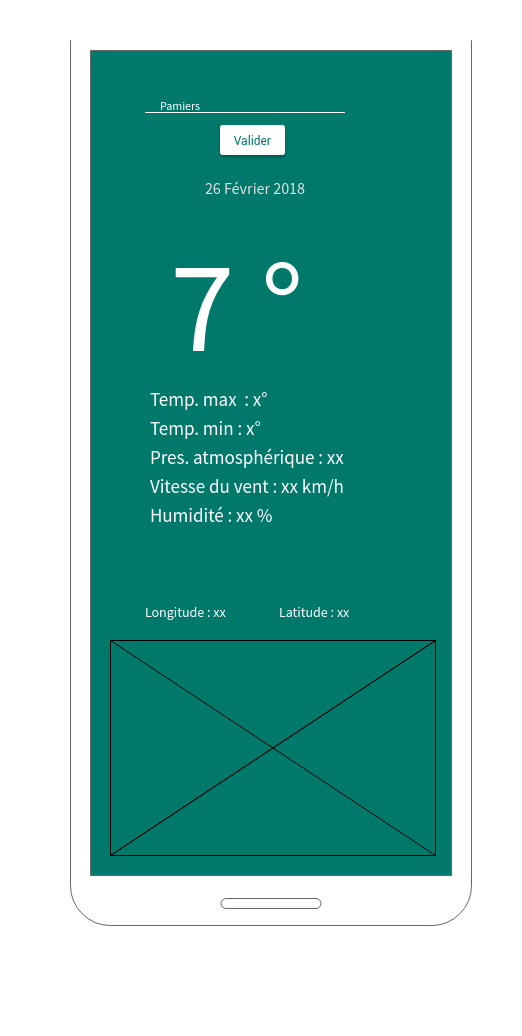
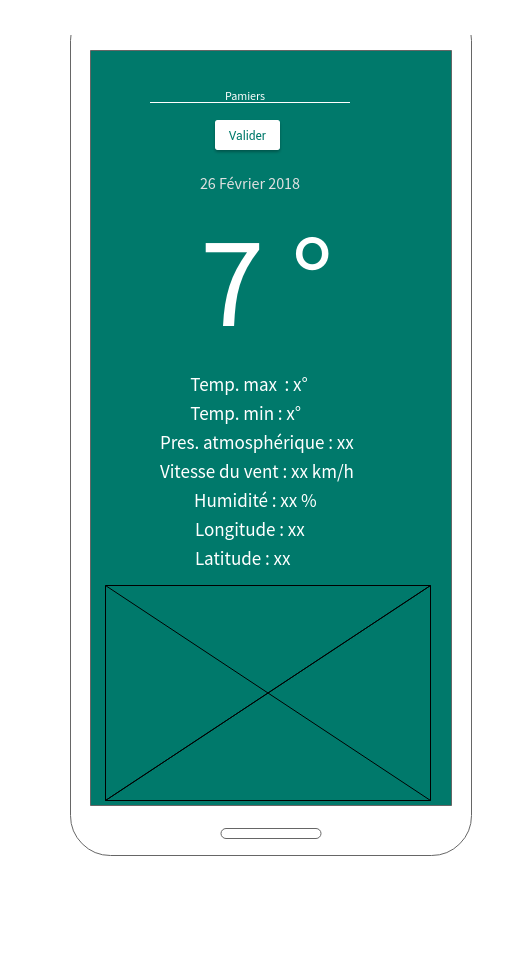
version finale

diff --git a/index.html b/index.html
@@ -9,34 +9,39 @@
     <link href="https://fonts.googleapis.com/css?family=Montserrat" rel="stylesheet"> 
 </head>
 <body>
+    <!-- Mon framework fonctionne avec un système de section dans lesquelles on va placer nos div avec des classes qui détermineront leur positionnement-->
+    <!-- Autogrid indique a notre page que toute les divs placés dans la section vont se répartir sur la même ligne en se répartissant la place, c'est la valeur a utiliser lorsque l'on souhaite placer une seule div dans la section pour une bonne responsivité -->
     <section class="autogrid">
-        <div class="center" id="recherche_ville">
-            <input id="champ">
+        <!-- Item-center centre la div sur la section -->
+        <div class="item-center responsive" id="recherche_ville">
+            <input id="champ" value="Tombouctou">
         </div>
     </section>
     <section class="autogrid" id="validation">
-        <div class="center">
+        <div class="item-center responsive">
             <button id="bouton">Valider</button>
         </div>
     </section>
     <section class="autogrid">
-        <div class="center" id="date">
+        <div class="item-center responsive" id="date">
         </div>
     </section>
+    <!-- Les grids suivies d'une valeur indiquent a notre section combien de colonnes seronts comprises dans la grille (tableau), ici grid-2 indique donc qu'il y aura 2 colonnes -->
     <section class="grid-2 has-gutter">
-        <div id="degrés"></div>
-        <div class="info_supp">
-            <p id="temp_max"></p>
-            <p id="temp_min"></p>
-            <p id="pres_atm"></p>
-            <p id="vit_ven"></p>
-            <p id="humid"></p>
+        <div id="degrés" class="item-center responsive"></div>
+        <div class="item-center">
+            <p id="temp_max" class="responsive"></p>
+            <p id="temp_min" class="responsive"></p>
+            <p id="pres_atm" class="responsive"></p>
+            <p id="vit_ven" class="responsive"></p>
+            <p id="humid" class="responsive"></p>
         </div>
     </section>
     <section class="autogrid">
-        <div class='center' id="coordonnees"></div>
+        <div class="item-center responsive" id="long"></div>
+        <div class="item-center responsive" id="lati"></div>
     </section>
-    <div id="map">
+    <div id="map" class="responsive">
     </div>
     <!-- scripts -->
     <script src="js/jquery-3.2.1.js"></script>

diff --git a/css/main.css b/css/main.css
@@ -17,6 +17,7 @@ body
     border: none;
     border-bottom: 2px solid white;
     color: white;
+    text-align: center;
 }
 
 #validation
@@ -37,18 +38,13 @@ body
 
  #degrés
  {
-     font-size: 10em;
-     text-align: center;
- }
-
- .info_supp
- {
+     font-size: 20vh;
      text-align: center;
  }
 
  #temp_max
  {
-     margin-top: 20%;
+     margin-top: 7%;
  }
 
  #pos_geo
@@ -58,12 +54,45 @@ body
 
 #map
 {
-    margin-left: 5vw;
-    width: 400px;
-    height: 400px;
+    display : flex;
+    justify-content: center;
+    align-items: center;
+    height: 55vh;
 }
 
 img
 {
     width: 80vw;
+}
+
+@media (max-width : 768px)
+{
+
+.responsive
+{
+    display: flex;
+    justify-content: center;
+}
+
+#map
+{
+    height: 55vh;
+}
+
+}
+
+@media (max-width : 425px)
+{
+.responsive
+{
+    display: flex;
+    justify-content: center;
+}
+
+#map 
+{
+    width: 100vw;
+    height: 55vh;
+}
+
 }

diff --git a/js/main.js b/js/main.js
@@ -1,6 +1,8 @@
+//Utilisation de moment.js pour afficher la date
 moment.locale('fr');
 $('#date').text(moment().format('LL'));
 
+//Utilisation de l'api
 var ville = $("#champ").val();
 function meteo(ville){
     $.ajax({
@@ -21,6 +23,7 @@ function meteo(ville){
 })
 }
 
+//Le document.ready lance la fonction au chargement de la page, la value de mon input est prise en compte et la requete est effectuée avec la valeur indiquée (ici Tombouctou)
 $(document).ready(function(){
     meteo(ville);
     $("#bouton").click(function(){
